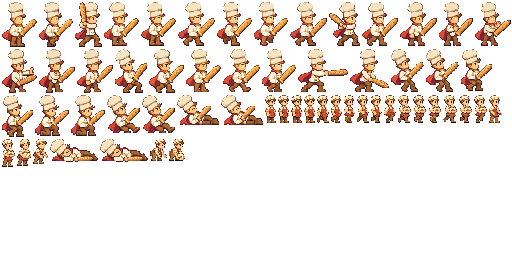
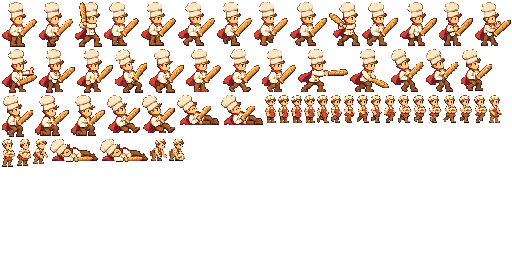
[Fix] 제빵 대장 눈 도트와 팔레트 통일

diff --git a/tools/art/gpt_import.py b/tools/art/gpt_import.py
@@ -280,6 +280,47 @@ def skill_icons():
     print("skill icons:", ", ".join(SKILL_ICONS))
 
 
+# Open-eye anchors in the 67x67 working cells, in animation order. The last
+# two fall frames intentionally keep the original closed eye.
+HERO_EYES = {
+    "idle": [(34, 30), (34, 30), (34, 29), (34, 30)],
+    "walk": [(34, 30), (34, 30), (34, 29), (34, 30), (34, 30), (34, 30)],
+    "attack": [(34, 30), (34, 30), (34, 29), (34, 30), (34, 30), (34, 30)],
+    "cast": [(34, 30)] * 6,
+    "hit": [(29, 29), (32, 30)],
+    "death": [(31, 29), (32, 30), (33, 32), (30, 31)],
+}
+
+
+def finish_hero(states):
+    """Use one palette across poses and preserve the eye at game resolution."""
+    pixels = []
+    for frames, _, _ in states.values():
+        for cell in frames:
+            opaque = cell[..., 3] > 0
+            rgb = cell[opaque, :3].astype(np.float32)
+            # Separate the warm outlines and midtones without blurring edges.
+            light = rgb @ np.array([0.299, 0.587, 0.114])
+            bump = np.interp(light, [0, 50, 115, 180, 235, 255], [0, -6, -8, 2, 6, 0])
+            cell[opaque, :3] = np.clip(rgb + bump[:, None], 0, 255).astype(np.uint8)
+            pixels.append(cell[opaque, :3])
+    all_pixels = np.concatenate(pixels)
+    palette = Image.fromarray(all_pixels[None]).quantize(colors=40)
+    for state, (frames, _, _) in states.items():
+        anchors = HERO_EYES[state]
+        for i, cell in enumerate(frames):
+            opaque = cell[..., 3] > 0
+            rgb = Image.fromarray(cell[opaque, :3][None])
+            cell[opaque, :3] = np.asarray(rgb.quantize(palette=palette, dither=Image.Dither.NONE).convert("RGB"))[0]
+            if i < len(anchors):
+                x, y = anchors[i]
+                eye = cell[y:y + 2, x:x + 2]
+                if not np.all(eye[..., 3] == 255):
+                    raise ValueError(f"Hero eye anchor outside sprite: {state}/{i}")
+                eye[:, 0, :3] = (54, 33, 29)
+                eye[:, 1, :3] = (255, 238, 205)
+
+
 def characters():
     """Pack the approved 3x2 sheets, using a stable body origin instead of the weapon bounds."""
     anims = {}
@@ -313,14 +354,20 @@ def characters():
                 # outlines and flour marks before Godot can display the pixels.
                 side = round(512 * height)
                 sm = np.array(Image.fromarray(rgba).resize((side, side), Image.Resampling.NEAREST))
-                sm = quantize(sm, 32)
+                frames.append(sm if name == "hero" else quantize(sm, 32))
+            anims[unit][state] = (frames, fps, loop)
+        if name == "hero":
+            finish_hero(anims[unit])
+        ax, ay = (round(v * side / 512) for v in origin)
+        for state, (frames, fps, loop) in anims[unit].items():
+            trimmed = []
+            for i, sm in enumerate(frames):
                 bounds = bbox(sm)
                 if bounds is None:
-                    raise ValueError(f"Empty frame: {path}, cell {i + 1}")
+                    raise ValueError(f"Empty frame: {name}/{state}, cell {i + 1}")
                 l, t, r, b = bounds
-                ax, ay = (round(v * side / 512) for v in origin)
-                frames.append((sm[t:b, l:r], [int(ax - l), int(ay - t)]))
-            anims[unit][state] = (frames, fps, loop)
+                trimmed.append((sm[t:b, l:r], [int(ax - l), int(ay - t)]))
+            anims[unit][state] = (trimmed, fps, loop)
     anims["hero_captain"]["die"] = anims["hero_captain"]["death"]
     print("gpt_bakery_crew", write_page("gpt_bakery_crew", "character", anims, 512,
                                       {("hero_captain", "attack"): 3}))

diff --git a/docs/art/gpt_sources/characters/README.md b/docs/art/gpt_sources/characters/README.md
@@ -7,3 +7,5 @@
 
 `python tools/art/gpt_import.py characters`로 전투용 투명 아틀라스를 다시 만든다.
 제빵 대장의 타격 프레임은 기존과 같은 4번째 칸이다.
+제빵 대장의 모든 동작은 공통 팔레트로 변환한다. 전투 크기에서 사라지기 쉬운 눈동자와
+흰자는 프레임별 위치에 같은 도트색으로 찍는다. 쓰러짐의 마지막 두 컷은 원본처럼 눈을 감는다.
